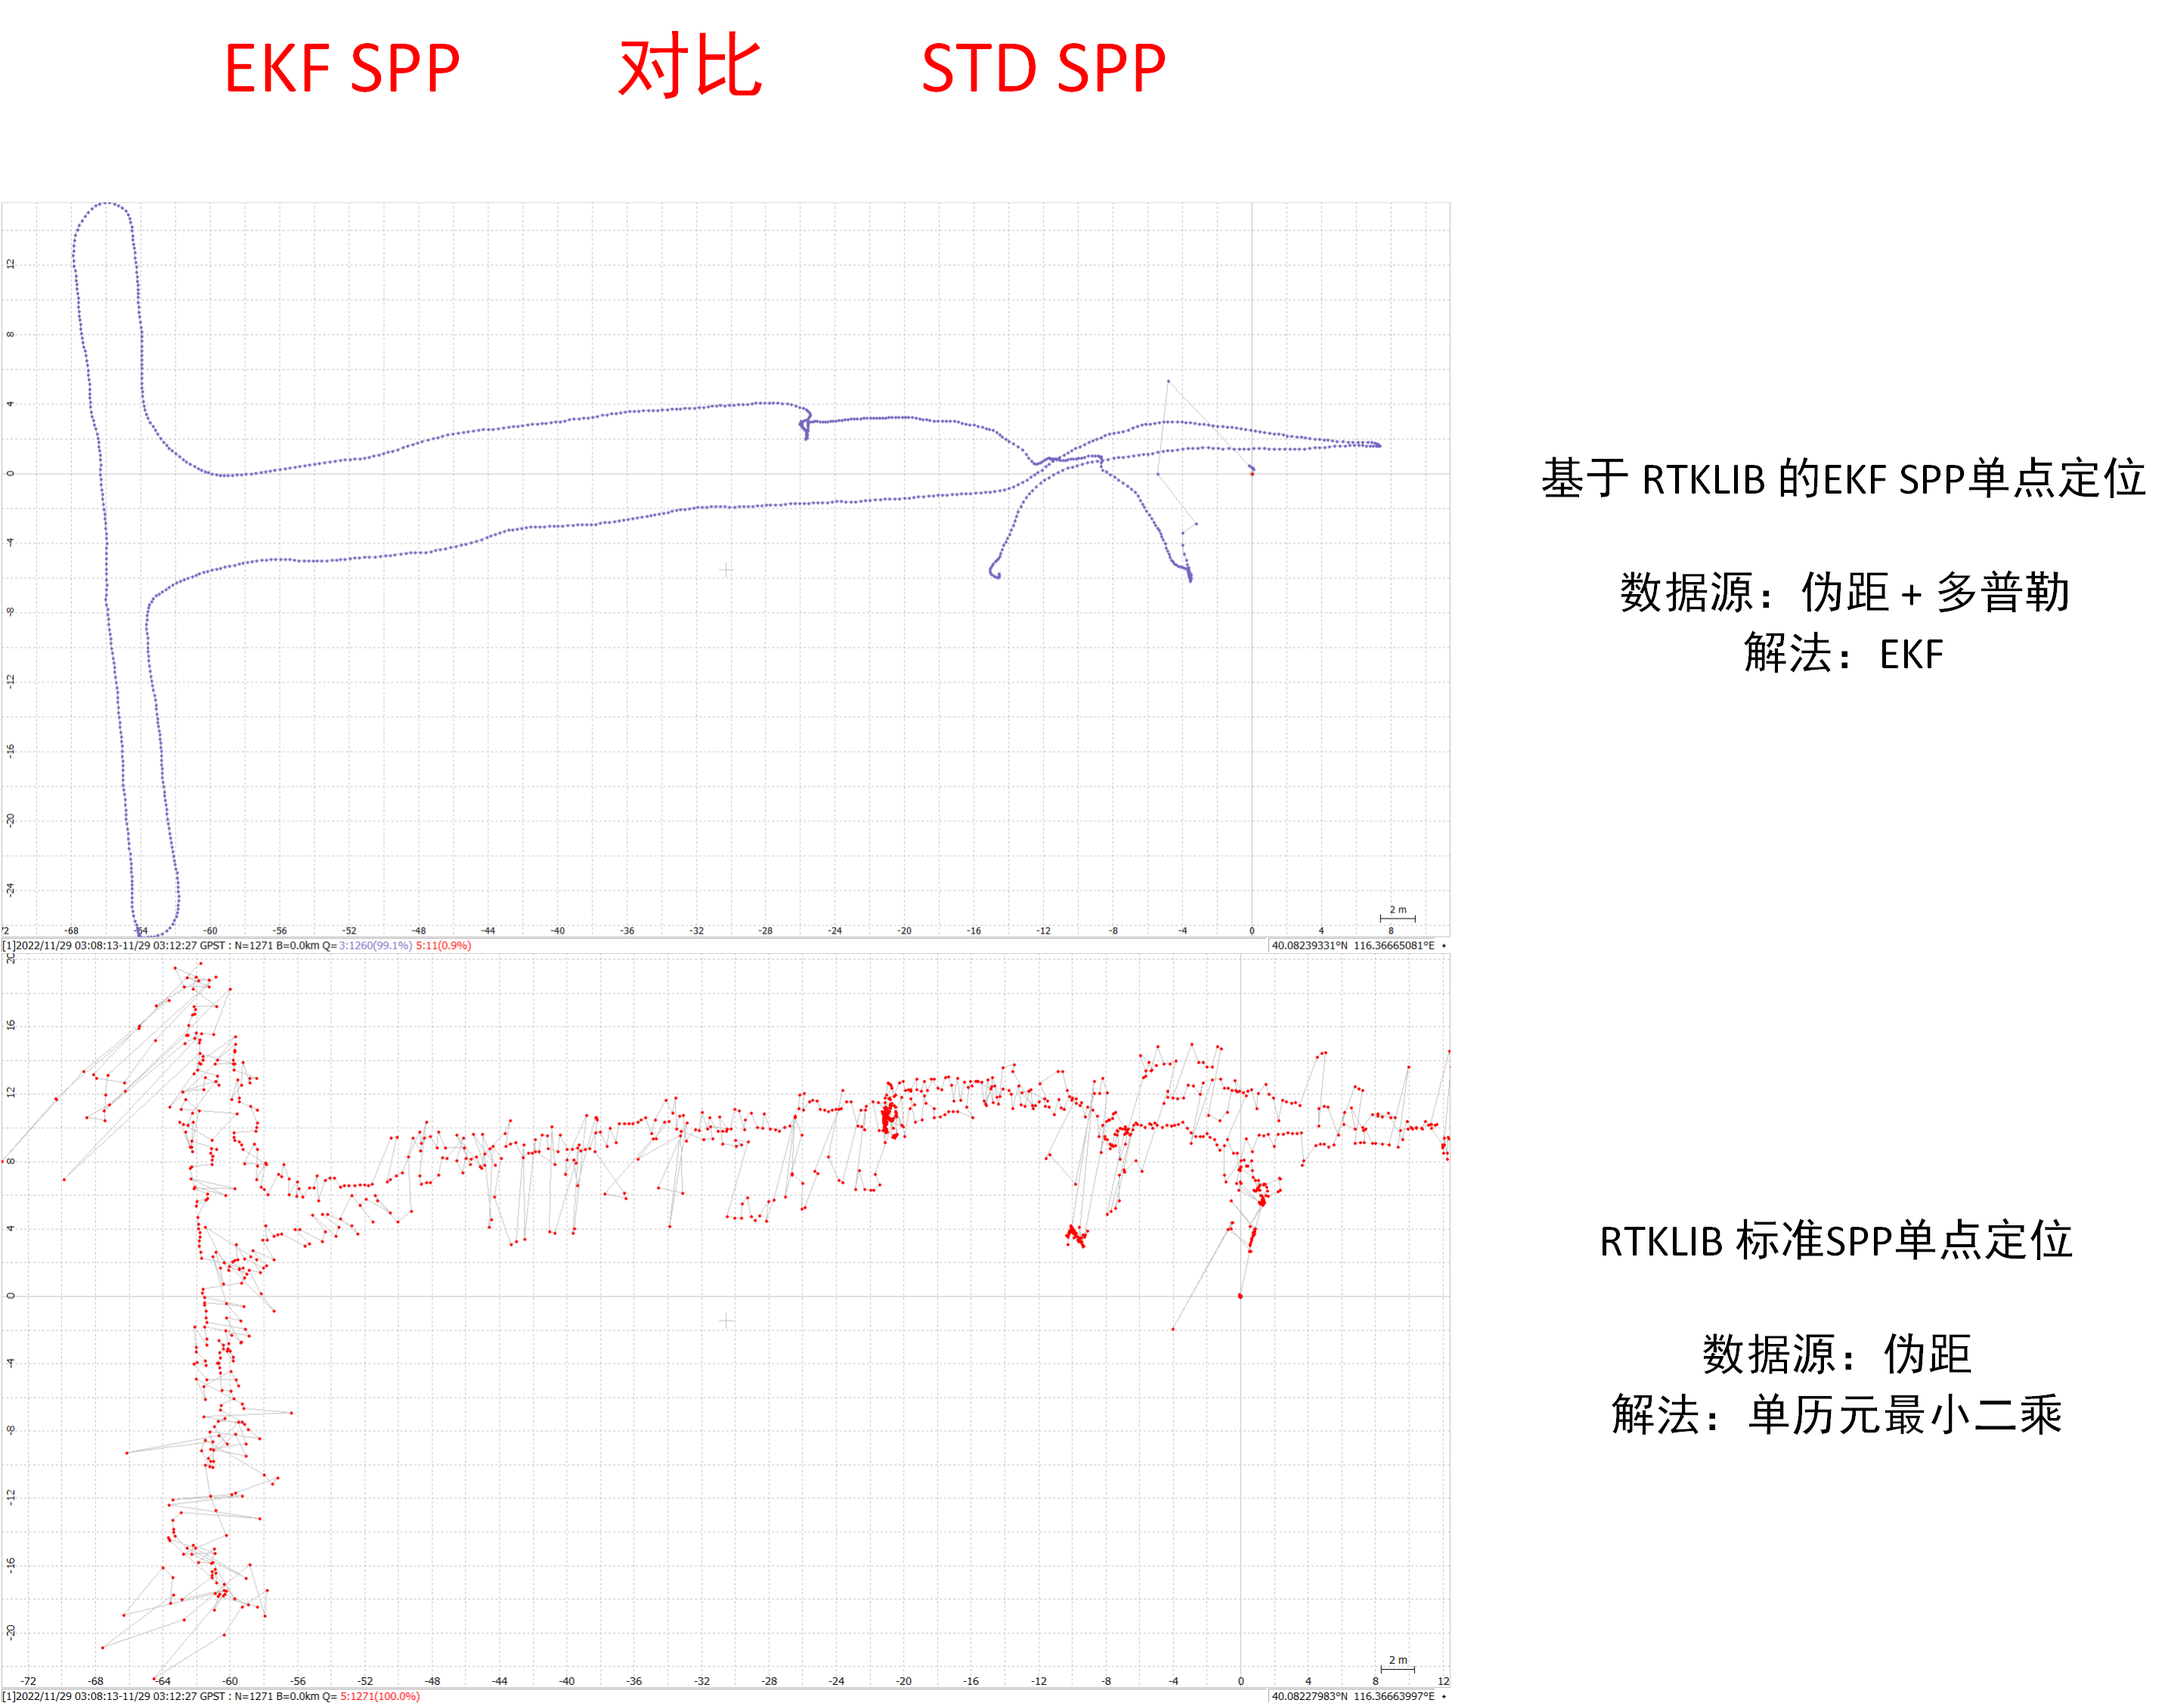
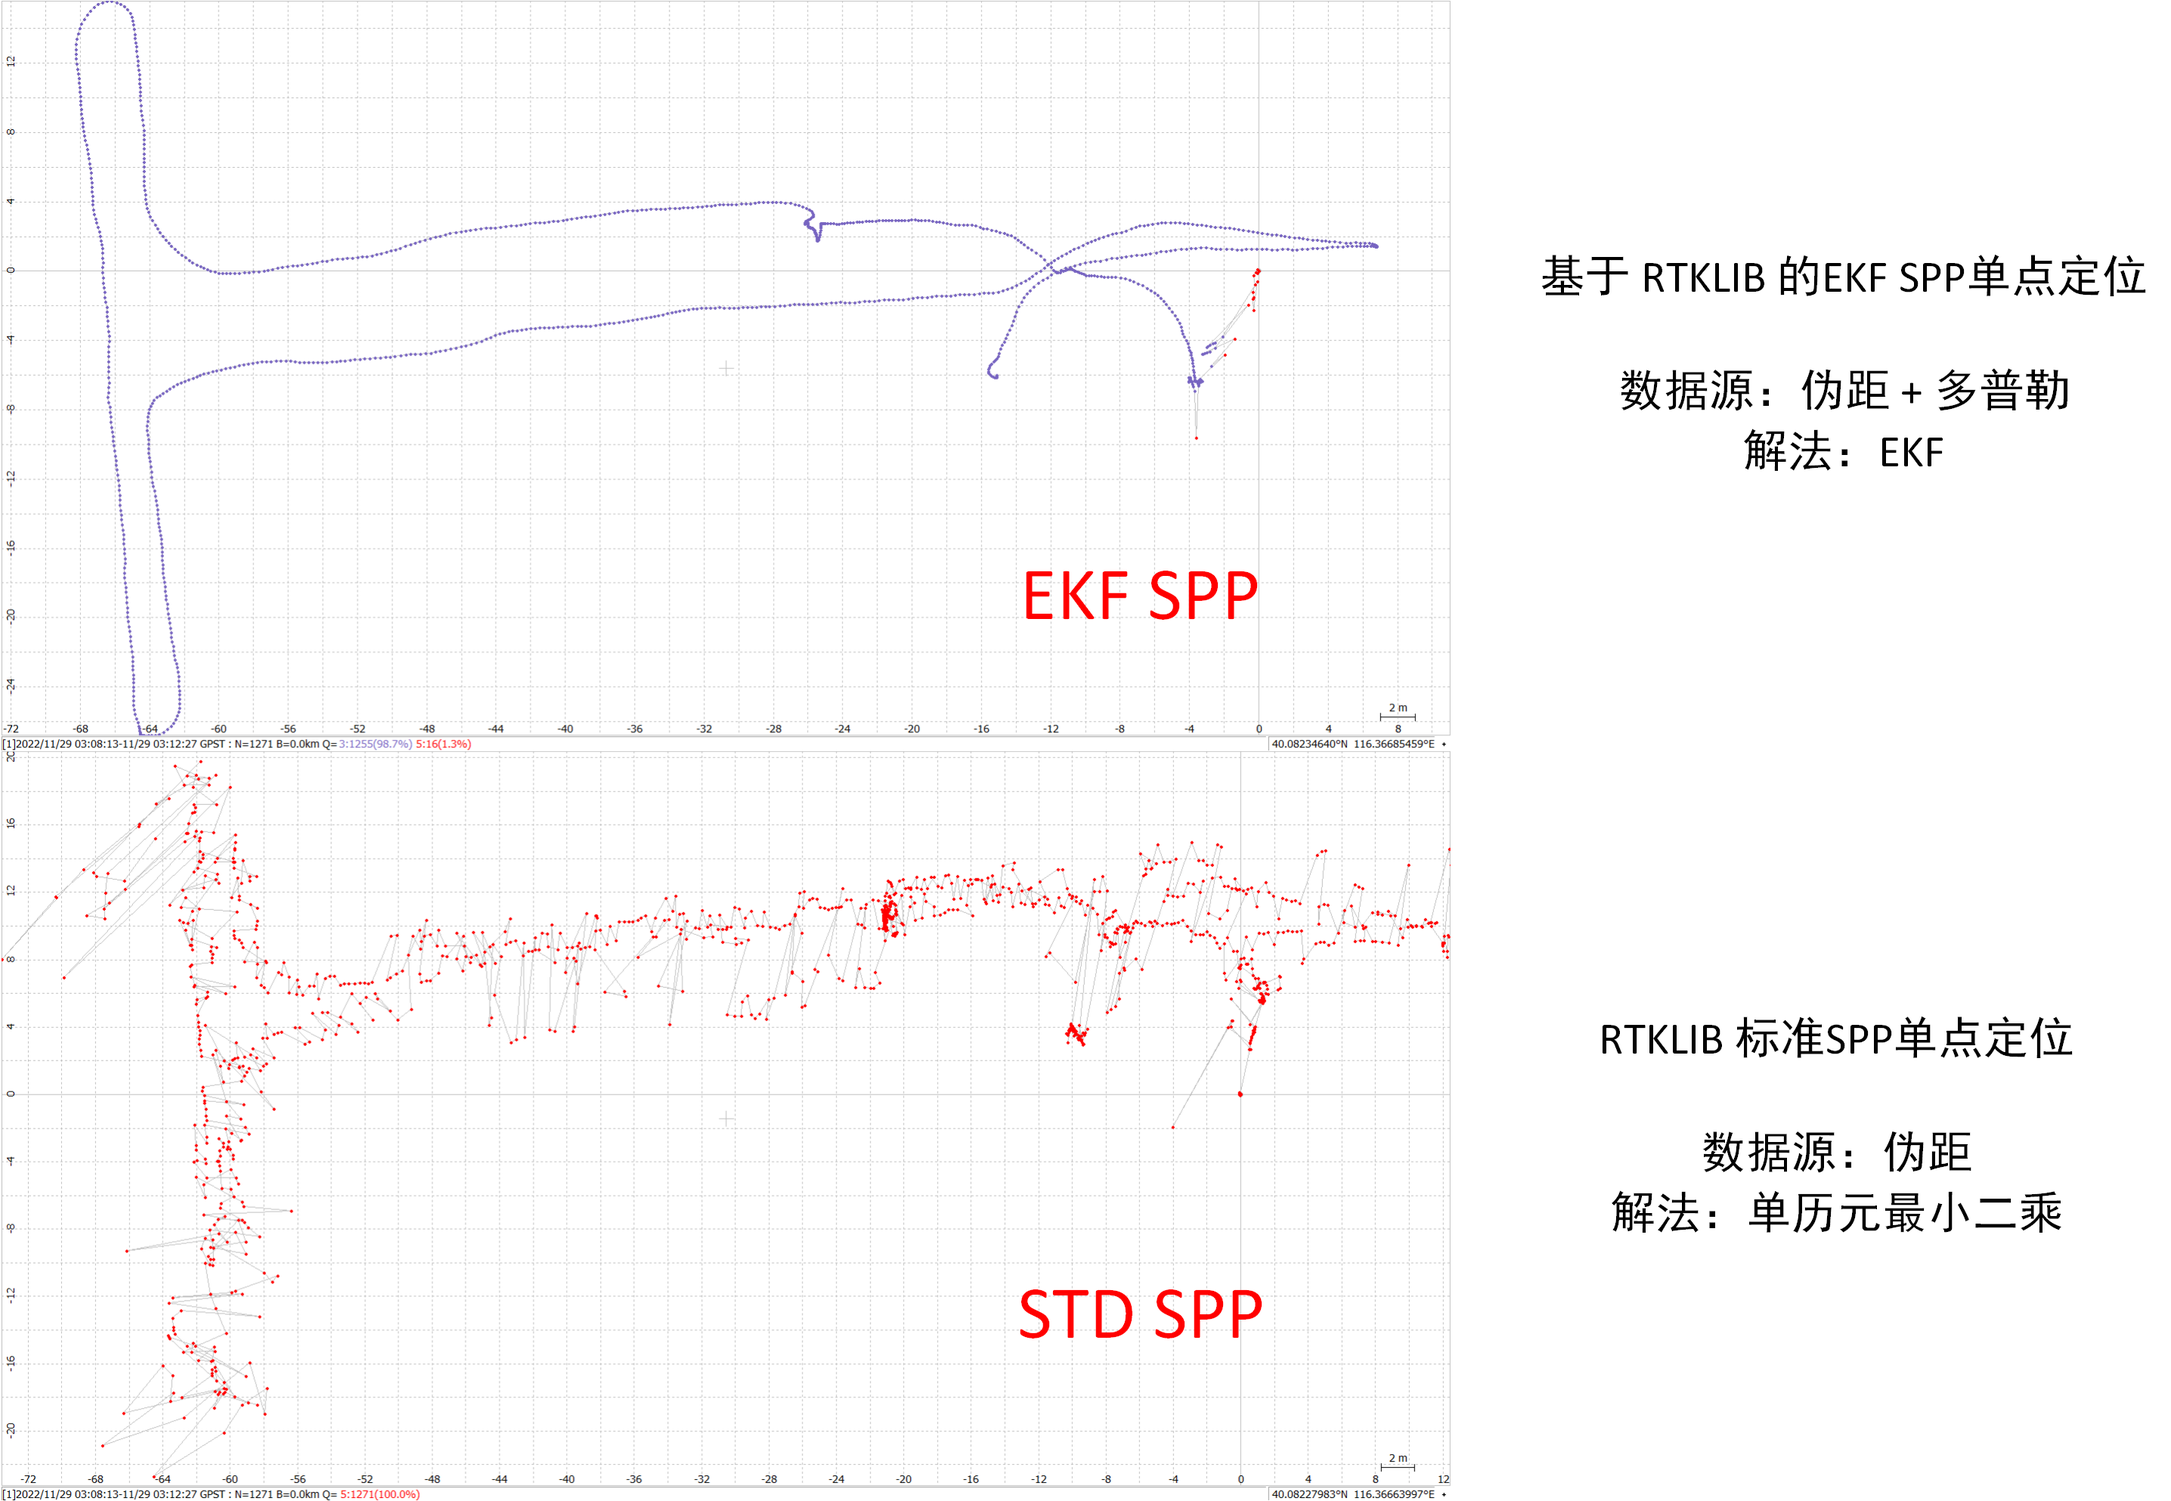
优化

diff --git a/GNSS_Algorithm/src/pntpos.c b/GNSS_Algorithm/src/pntpos.c
@@ -490,7 +490,7 @@ static int rescode(int iter, const obsd_t *obs, int n, const double *rs,
         
         /* pseudorange residual */
         v[nv]=P-(r+dtr-CLIGHT*dts[i*2]+dion+dtrp);
-        trace(4,"sat=%d: v=%.3f P=%.3f r=%.3f dtr=%.6f dts=%.6f dion=%.3f dtrp=%.3f\n",
+        trace(3,"sat=%d: v=%.3f P=%.3f r=%.3f dtr=%.6f dts=%.6f dion=%.3f dtrp=%.3f\n",
             sat,v[nv],P,r,dtr,dts[i*2],dion,dtrp);
         
         /* design matrix */
@@ -1123,11 +1123,13 @@ static int estpos_ekf(const obsd_t *obs, int n, const double *rs, const double *
 	{
 		stat = pntpos(obs, n, nav, &rtk->opt, sol, azel, rtk->ssat, msg);
 		if (stat == SOLQ_NONE) return stat;
+		if (sol->ns < 3 + 1 + 1 + 3) return stat;
 
-		for (i = 0; i < 3; i++) 	initx(rtk, sol->rr[i], VAR_POS, i);
-		for (i = 3; i < 6; i++) 	initx(rtk, 0.1, VAR_VEL, i);
-		for (i = 6; i < 9; i++) 	initx(rtk, 1E-2, VAR_ACC, i);
-		for (i = 9; i < NX_F; i++)	initx(rtk, 0.1, SQR(30), i);
+		for (i = 0; i < 3; i++) 		initx(rtk, sol->rr[i], VAR_POS, i);
+		for (i = 3; i < 6; i++) 		initx(rtk, sol->rr[i], VAR_VEL, i);
+		for (i = 6; i < 9; i++) 		initx(rtk, 1E-2, VAR_ACC, i);
+		for (i = 9; i < NX_F-1; i++)	initx(rtk, sol->dtr[i-9]*CLIGHT, SQR(30), i);
+		for (i = NX_F-1; i < NX_F; i++)	initx(rtk, 0.1, SQR(30), i);
 
 		return stat;
 	}
@@ -1467,10 +1469,17 @@ extern int pntpos(const obsd_t *obs, int n, const nav_t *nav,
     return stat;
 }
 
+static int cmpres(const void *p1, const void *p2)
+{
+    double *q1=(double *)p1,*q2=(double *)p2;
+
+    return *q1 - *q2;
+}
+
 extern int pntpos_ekf(const obsd_t *obs, const int n, const nav_t *nav, rtk_t *rtk)
 {
 	double *rs, *dts, *var, *azel_, *resp, pos[3];
-	int stat, vsat[MAXOBS] = { 0 }, svh[MAXOBS];
+	int i, stat, vsat[MAXOBS] = { 0 }, svh[MAXOBS], n_used = 0;
 
 	trace(3, "pntpos_ekf: tobs=%s nobs=%d\n", time_str(obs[0].time, 3), n);
 	/* init spp state*/
@@ -1493,6 +1502,20 @@ extern int pntpos_ekf(const obsd_t *obs, const int n, const nav_t *nav, rtk_t *r
 
 	/* estimate receiver position with pseudorange + doppler */
 	stat = estpos_ekf(obs, n, rs, dts, var, svh, nav, azel_, vsat, resp, rtk);
+	if (stat == SOLQ_DOP_SINGLE) {
+		/* 伪距残差异常检测 */
+		for (i = 0; i < n; i++) {
+			if (vsat[i]) resp[n_used++] = resp[i];
+		}
+		if (n_used > 4) {
+			qsort(resp,n_used,sizeof(double),cmpres);
+			if (fabs(resp[n_used/2]) > 30) {
+				init_spp(rtk);
+				stat = SOLQ_SINGLE;
+				trace(3, "init ekf because residual abnormal, middle res=%.3lf\n", resp[n_used/2]);
+			}
+		}
+	}
 	ecef2pos(rtk->sol.rr, pos);
 	trace(3, "estpos_ekf: stat=%d time=%s position=%.8lf %.8lf %.2lf\n", stat, time_str(obs[0].time, 3), pos[0] * R2D, pos[1] * R2D, pos[2]);
 	printf("estpos_ekf: stat=%d time=%s nobs=%d position=%.8lf %.8lf %.2lf\n", stat, time_str(obs[0].time, 3), n, pos[0] * R2D, pos[1] * R2D, pos[2]);

diff --git a/README.md b/README.md
@@ -2,14 +2,21 @@
 
 ![GNSS-Explorer.png](https://github.com/brucezhcw/GNSS-Explorer/blob/linux/image/GNSS-Explorer.png) 
 
-## 标准cmake编译流程:
+本项目代码以RTKLIB为基础，用EKF扩展卡尔曼滤波算法实现了低精度绝对观测伪距 + 高精度相对观测多普勒数据的融合。
+相对观测多普勒数据精度较高（多普勒速度误差典型值10cm/s），结合卡尔曼滤波算法，可以保证定位轨迹局部的连续性，
+绝对观测伪距精度较低，但可以保证全局无偏，二者融合效果非常棒
+
+目前代码维护两个分支对应两个平台：linux + Visual Studio
+
+## linux平台下标准cmake编译运行流程:
 ```
 cd GNSS_Algorithm
 mkdir build
 cd build
 cmake ..
 make
+
+./gnss_algorithm
 ```
 
-1. RTKLIB基础上的SPP单点定位算法优化
-2. 参考资料：【GNSS算法进阶（二）- kalman滤波单点定位算法代码实现】https://zhuanlan.zhihu.com/p/577601009
+参考资料：[GNSS算法进阶（二）- kalman滤波单点定位算法代码实现](https://zhuanlan.zhihu.com/p/577601009)
